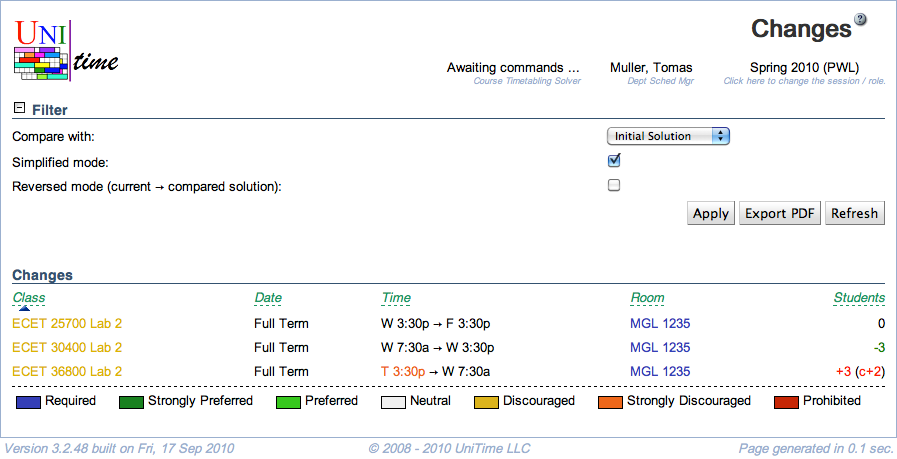
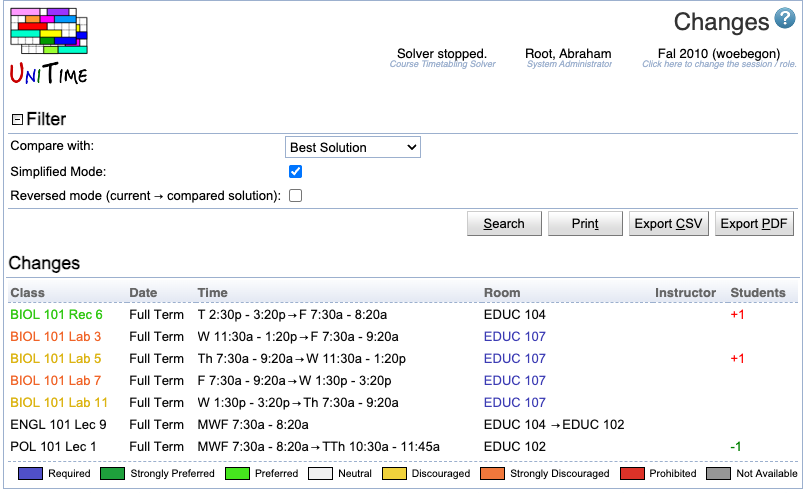
Changes, Assignment History
- new screenshots, new fields, text cleanup

diff --git a/changes.md b/changes.md
@@ -23,7 +23,8 @@ Set up the filter to display changes you are interested in:
 	* Options:
 		* Best Solution - best solution found so far (either generated by the solver or saved by the user to the best timetable found so far in the [Solver](solver) screen)
 		* Initial Solution - timetable initially loaded into the solver (it needn't be the same as the selected solution, since some classes might have been assigned/unassigned due to a change in input data)
-		* Selected Solution - timetable selected in the Timetables screen
+		* Selected Solution - timetable selected in the [Saved Timetables](saved-timetables) screen
+		* Committed Solution - committed timetable
 
 * **Simplified mode**
 	* In the simplified mode, only the number of additional student conflicts is displayed for each change
@@ -38,13 +39,16 @@ A list of changes in time/room assignments. Click on any change to go to the [Su
 
 ## Operations
 
-* **Apply**
-	* Apply changes made to the filter
+* **Search**
+	* Apply changes made to the filter and refresh the list of Changes
+
+* **Print**
+    * Print the list of changes
+
+* **Export CSV**
+    * Export the list of changes to a CSV document
 
 * **Export PDF**
-	* Export the list of changes to a PDF document
-
-* **Refresh**
-	* Refresh the screen
+    * Export the list of changes to a PDF document
 
 

diff --git a/assignment-history.md b/assignment-history.md
@@ -14,7 +14,6 @@ The Assignment History screen provides a list of all changes in the class assign
 
 ### Filter
 
-
 The only item in this section is
 
 * **Simplified mode**
@@ -26,12 +25,14 @@ A list of changes in time/room assignment that includes a time stamp for each of
 
 ## Operations
 
-* **Apply**
-	* Apply changes made to the filter
+* **Search**
+    * Apply the changes made to the filter, and refresh the list of changes
+
+* **Print**
+    * Print the list of changes
+
+* **Export CSV**
+    * Export the list of changes to a CSV document
 
 * **Export PDF**
-	* Export the list of changes to a PDF document
-
-* **Refresh**
-	* Refresh the screen
-
+    * Export the list of changes to a PDF document
